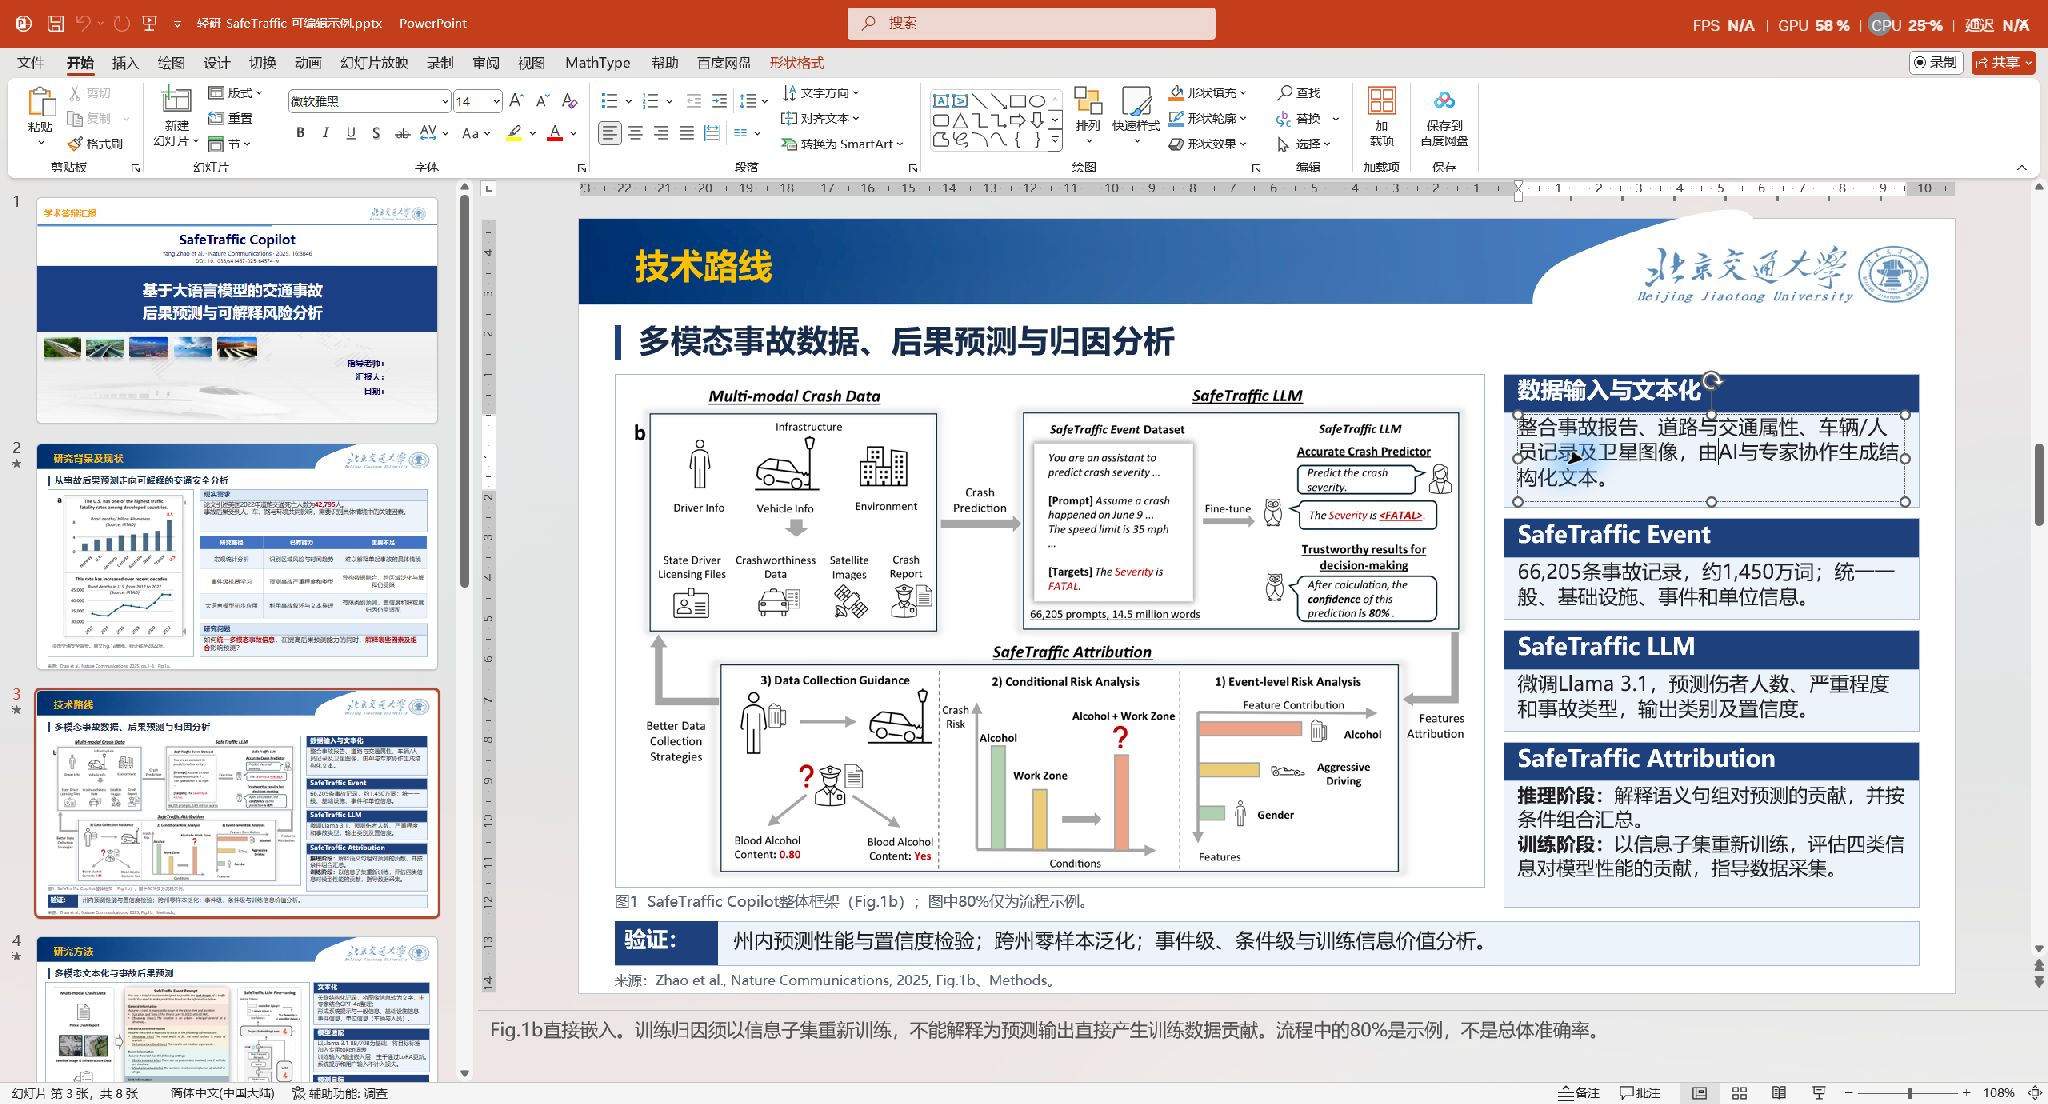
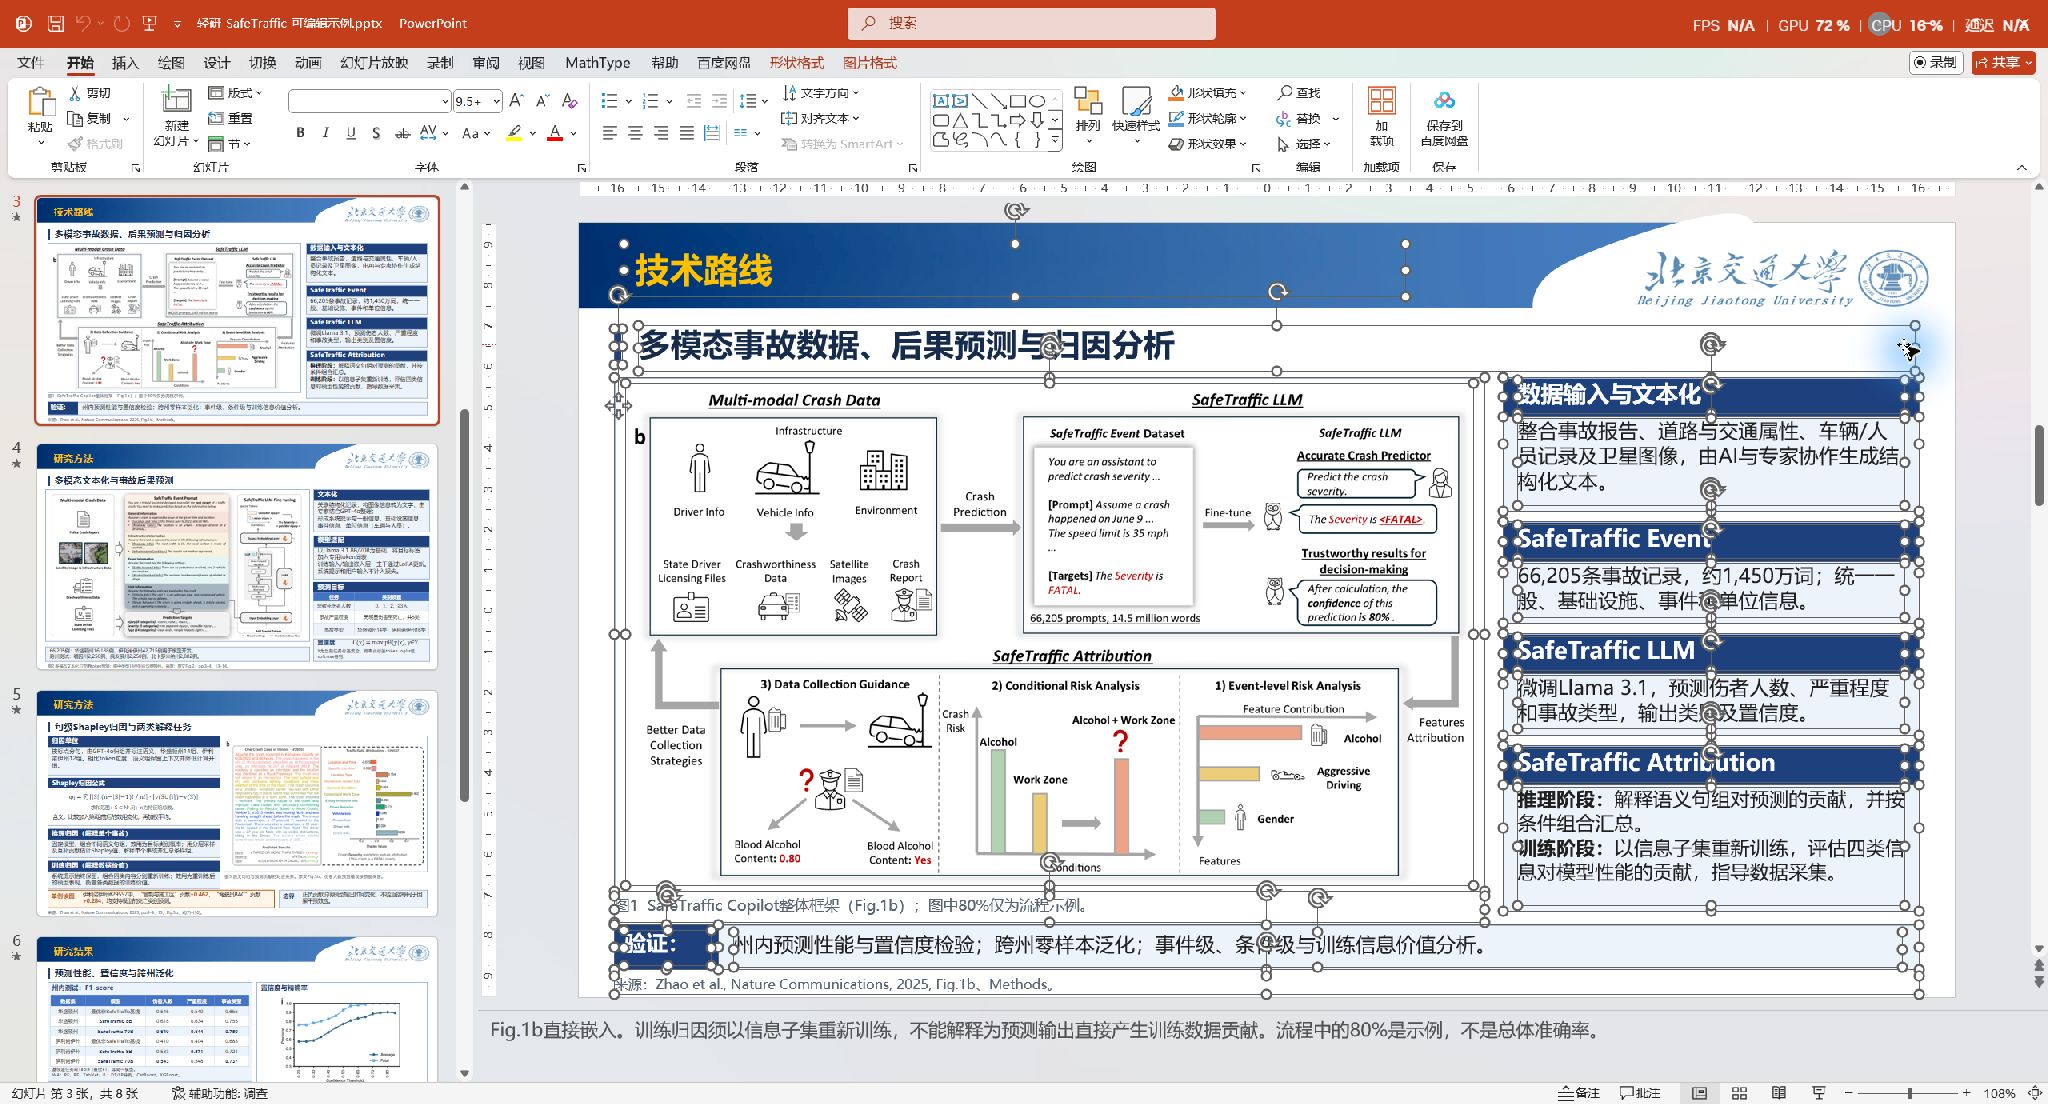
docs: explain reference learning and show all selected slide components

diff --git a/README.md b/README.md
@@ -35,51 +35,53 @@ $Qingyan-ppt-design
 
 Qingyan-ppt-design（轻研 Slide，简称「轻研」）是一款面向科研与学术汇报的 Codex Skill，通过对话将研究材料转化为学术 PPT。学习真实模板的图文组织、字体、配色与版式，让新内容延续参考风格。支持分阶段确认，交付整页视觉稿与可编辑 PPTX。
 
-以下选取 **SafeTraffic Copilot 8 页学术答辩汇报**中的第 3、4、6 页，展示模板参考、最终版面与真实编辑界面。参考页来自内置模板1；成品图均从实际交付的可编辑 PPTX 经 **Microsoft PowerPoint 重新渲染**，分辨率为 1920 × 1080。点击图片可查看大图。
+以下以 **SafeTraffic Copilot 学术答辩汇报**展示主模板、补充参考与可编辑成品。各组参考图均为制作时实际使用的输入，成品图由交付的 PPTX 在 PowerPoint 中重新渲染。点击图片可查看大图。
 
-### 示例一：技术路线｜第 3 页
+### 示例1：技术路线
 
-沿用模板的蓝白配色与标题层级，用论文框架图和分组说明呈现技术路线。右侧说明、标题和底部验证说明均为原生文本，可单独修改。
+从主模板学习模块分工、分区标题、输入输出与底部联系，从补充参考学习数据基础与后续分析相邻的组织方式。结合论文已有的完整框架图，安排为左侧大图、右侧分层解释、底部验证说明；保留模板的蓝白配色、黄色栏目标题与字体层级。
 
-| 模板参考 · 模板1第 5 页 | 最终效果 · PPTX 实际渲染 |
-| --- | --- |
-| ![技术路线模板参考](assets/showcase/safetraffic/reference-05.png) | ![技术路线成品的 PowerPoint 实际渲染](assets/showcase/safetraffic/slide-03.png) |
+| 主模板参考 | 补充组织参考 | 最终效果 · PPTX 实际渲染 |
+| --- | --- | --- |
+| ![技术路线主模板：模块分工与输入输出](assets/showcase/safetraffic/reference-05.png) | ![技术路线补充参考：数据基础与后续分析的组织](assets/showcase/safetraffic/reference-route-supplement.png) | ![技术路线成品的 PowerPoint 实际渲染](assets/showcase/safetraffic/slide-03.png) |
 
-**在 PowerPoint 中编辑正文：**下图保留完整幻灯片、左侧缩略图与功能区，可看到右侧正文文本框的选中边界及字体设置。
+在 PowerPoint 中实际渲染的效果如下：
 
-![技术路线页的真实 PowerPoint 编辑窗口，原生正文文本框已选中](assets/showcase/safetraffic/editor-03.jpg)
+![示例1：在 PowerPoint 画布中按 Ctrl+A 全选本页组件](assets/showcase/safetraffic/editor-03.jpg)
 
-### 示例二：研究方法｜第 4 页
+### 示例2：研究方法
 
-参考模板中“方法图解＋分区说明”的组织方式，将多模态文本化、模型适配与预测目标安排在同一页。预测目标使用 **PowerPoint 原生表格**，文字、单元格及行列尺寸均可调整。
+从主模板学习机制图与解释段落同组、标题分层，从补充参考学习操作、科学关系与说明就近呈现。将论文三段流程图完整放在左侧，右侧按文本化、模型适配、预测目标和置信度组织说明，数据规模紧邻图下；预测目标重建为原生表格。
 
-| 模板参考 · 模板1第 6 页 | 最终效果 · PPTX 实际渲染 |
-| --- | --- |
-| ![研究方法模板参考](assets/showcase/safetraffic/reference-06.png) | ![研究方法成品的 PowerPoint 实际渲染](assets/showcase/safetraffic/slide-04.png) |
+| 主模板参考 | 补充组织参考 | 最终效果 · PPTX 实际渲染 |
+| --- | --- | --- |
+| ![研究方法主模板：机制图与解释分组](assets/showcase/safetraffic/reference-06.png) | ![研究方法补充参考：操作与说明相邻](assets/showcase/safetraffic/reference-method-supplement.png) | ![研究方法成品的 PowerPoint 实际渲染](assets/showcase/safetraffic/slide-04.png) |
 
-**在 PowerPoint 中编辑表格：**预测目标表格已选中，顶部“表布局”功能区显示插入行列、合并单元格与尺寸设置等原生工具。
+在 PowerPoint 中实际渲染的效果如下：
 
-![研究方法页的真实 PowerPoint 编辑窗口，预测目标表格及表布局工具](assets/showcase/safetraffic/editor-04.jpg)
+![示例2：在 PowerPoint 画布中按 Ctrl+A 全选本页组件](assets/showcase/safetraffic/editor-04.jpg)
 
-### 示例三：研究结果｜第 6 页
+### 示例3：研究结果
 
-参考模板的“数据对比＋图表证据＋结果解释”，将模型性能和跨州泛化结果重建为两张原生表格，并保留论文置信度曲线。可以直接修改数值、调整列宽、设置重点数据的字体与颜色。
+从主模板学习表格与多组证据相邻、解释紧靠数据的高密度排版，从补充参考学习定量比较就地解释。成品左侧安排州内与跨州结果表，右侧安排置信度曲线及解释，底部集中交代评估条件；表格采用蓝色表头、浅色隔行与重点数值加粗，保持数字字号一致。
 
-| 模板参考 · 模板1第 12 页 | 最终效果 · PPTX 实际渲染 |
-| --- | --- |
-| ![研究结果模板参考](assets/showcase/safetraffic/reference-12.png) | ![研究结果成品的 PowerPoint 实际渲染](assets/showcase/safetraffic/slide-06.png) |
+| 主模板参考 | 补充组织参考 | 最终效果 · PPTX 实际渲染 |
+| --- | --- | --- |
+| ![研究结果主模板：表格、图证据与解释相邻](assets/showcase/safetraffic/reference-12.png) | ![研究结果补充参考：定量比较就地解释](assets/showcase/safetraffic/reference-results-supplement.png) | ![研究结果成品的 PowerPoint 实际渲染](assets/showcase/safetraffic/slide-06.png) |
 
-**在 PowerPoint 中编辑数据：**上方性能对比表格已选中，完整结果页与“表布局”工具栏同时可见。
+在 PowerPoint 中实际渲染的效果如下：
 
-![研究结果页的真实 PowerPoint 编辑窗口，原生性能对比表格已选中](assets/showcase/safetraffic/editor-06.jpg)
+![示例3：在 PowerPoint 画布中按 Ctrl+A 全选本页组件](assets/showcase/safetraffic/editor-06.jpg)
 
-这三页合计包含 **39 个有文字的原生形状、3 张原生表格**（按页内对象统计，不含母版）。论文框架图、方法图与曲线各作为一张独立图片保留，可移动、缩放和替换；图片内部文字、曲线和连线仍属于原图。以上编辑界面为 PowerPoint 实拍，截图时仅选中对象，未修改汇报内容。
+以上编辑截图均在 PowerPoint 画布中按 **Ctrl+A 全选本页组件**后拍摄，可看到文本、表格、图片及形状各自的选中边界。文本内容、表格数据与对象格式可继续修改；论文原图作为独立图片保留，可移动、缩放和替换，图内元素保持原样。
 
 研究材料：Zhao et al., *Nature Communications* (2025), 16:8846，[DOI: 10.1038/s41467-025-64574-w](https://doi.org/10.1038/s41467-025-64574-w)。示例用于展示学术汇报的排版与可编辑交付，研究结论及原图归原论文作者。
 
 ## 3. 核心设计：从真实模板中学习
 
-以用户指定模板为主要依据，比较多份 PPT 中的同类页面，学习图文组织、文字层级、配色、版式与留白，形成适合本次材料的设计方案。将具体参考页、原始素材和完整文稿共同传入生成请求，让参考中的表达方式落实到每一页，并在整套汇报中延续已确认的风格。
+以用户指定模板为主要依据，比较多份 PPT 中的同类页面，学习图文组织、文字层级、配色、版式与留白，形成适合本次材料的设计方案。
+
+本次示例先比较整套模板预览，再按技术路线、方法和结果分别选择主参考与补充参考。生成每张视觉稿时，同时传入真实模板净底板、论文原图、两张参考页和完整文稿，并在提示词中逐项写明借鉴的组织方式及本页如何落实。页眉与标识保留在原位，正文按原图比例和信息量重新安排；参考中的研究内容不带入本次汇报。视觉稿确认后，再将文本、表格和形状重建为可编辑对象，保留独立论文原图，并用 PowerPoint 实际渲染核对。
 
 ## 4. 制作流程：输入、阶段与交付
 
